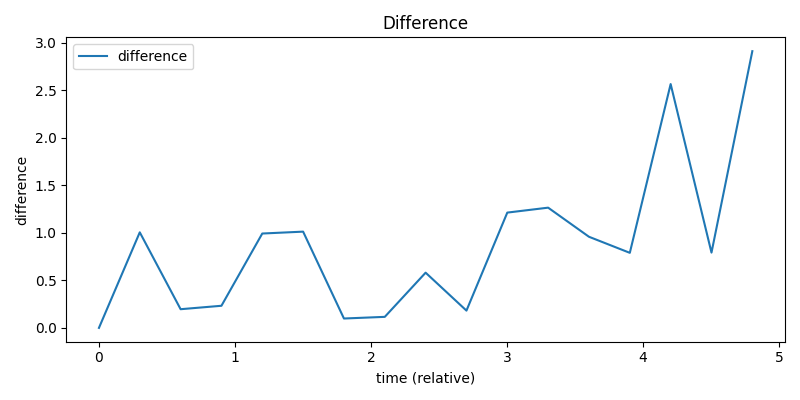
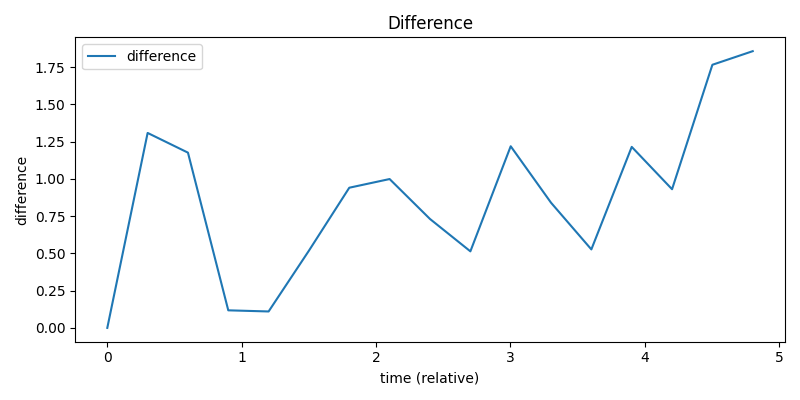
add acceleration arg and progress display

diff --git a/src/main.cpp b/src/main.cpp
@@ -1,20 +1,58 @@
 #include <iostream>
+#include <thread>
+#include <chrono>
 
 #include "config/config.h"
 #include "pipeline/pipeline_manager.h"
 
+// 進捗表示
+static void showProgress(int duration_sec) {
+    const int steps = 20;
+    int sleep_per_step = duration_sec * 1000 / steps;
+
+    for (int i = 1; i <= steps; ++i) {
+        std::this_thread::sleep_for(std::chrono::milliseconds(sleep_per_step));
+
+        int percent = i * 5;
+
+        std::cout << "\rProgress: [";
+        for (int j = 0; j < steps; ++j) {
+            if (j < i) std::cout << "*";
+            else std::cout << "-";
+        }
+        std::cout << "] " << percent << "%" << std::flush;
+    }
+
+    std::cout << std::endl;
+}
+
 int main(int argc, char* argv[]) {
+
+    // TODO 各ファイルのメンバ変数にmを付ける
+    // TODO namespaceを付ける
+
+    // 入力値のチェック
     Config config = parseArgs(argc, argv);
     validateConfig(config);
 
-    // 修正したい箇所に関してはTODOで検索する
-    // TODO 加速度も入力できるようにする
-    // TODO 各ファイルのメンバ変数にmを付ける
+    PipelineManager manager(
+        config.sensor_interval_ms,
+        config.noise_stddev,
+        config.alpha,
+        config.ax,
+        config.ay
+    );
 
-    PipelineManager manager(config.sensor_interval_ms, config.noise_stddev, config.alpha);
+    // 別スレッドで進捗表示
+    std::thread progress_thread(showProgress, config.duration_sec);
 
+    // Pipelineを実行してセンターデータを収集
     manager.start();
     std::this_thread::sleep_for(std::chrono::seconds(config.duration_sec));
     manager.stop();
 
+    // 進捗表示スレッド終了待ち
+    progress_thread.join();
+
+    return 0;
 }

diff --git a/src/config/config.cpp b/src/config/config.cpp
@@ -19,6 +19,12 @@ Config parseArgs(int argc, char* argv[]) {
             } else if (arg == "--alpha" && (i + 1) < argc) {
                 config.alpha = std::stod(argv[++i]);
 
+            } else if (arg == "--ax" && (i + 1) < argc) {
+                config.ax = std::stod(argv[++i]);
+
+            } else if (arg == "--ay" && (i + 1) < argc) {
+                config.ay = std::stod(argv[++i]);
+
             } else {
                 std::cerr << "Unknown argument: " << arg << std::endl;
             }
@@ -31,6 +37,8 @@ Config parseArgs(int argc, char* argv[]) {
     std::cout << "interval=" << config.sensor_interval_ms << std::endl;
     std::cout << "noise=" << config.noise_stddev << std::endl;
     std::cout << "alpha=" << config.alpha << std::endl;
+    std::cout << "acceleration_x=" << config.ax << std::endl;
+    std::cout << "acceleration_y=" << config.ay << std::endl;
 
     return config;
 }
@@ -43,6 +51,12 @@ void validateConfig(const Config& config) {
         throw std::runtime_error("interval must be > 0");
     }
     if (config.alpha < 0.0 || config.alpha > 1.0) {
-        throw std::runtime_error("alpha must be in [0,1]");
+        throw std::runtime_error("alpha must be in [0, 1]");
+    }
+    if (config.ax < -10.0 || config.ax > 10.0) {
+        throw std::runtime_error("ax must be in [-10.0, 10.0]");
+    }
+    if (config.ay < -10.0 || config.ay > 10.0) {
+        throw std::runtime_error("ay must be in [-10.0, 10.0]");
     }
 }

diff --git a/src/components/sensor.cpp b/src/components/sensor.cpp
@@ -2,8 +2,8 @@
 #include <chrono>
 #include <random>
 
-Sensor::Sensor(SafeQueue<Position>& raw, SafeQueue<Position>& proc, int interval_ms, double noise)
-    : raw_queue(raw), proc_queue(proc), interval(interval_ms), noise_stddev(noise) {}
+Sensor::Sensor(SafeQueue<Position>& raw, SafeQueue<Position>& proc, int interval_ms, double noise, double ax, double ay)
+    : raw_queue(raw), proc_queue(proc), interval(interval_ms), noise_stddev(noise), acceleration_x(ax), acceleration_y(ay) {}
 
 void Sensor::start() {
     sensorRunning = true;
@@ -26,10 +26,6 @@ void Sensor::run() {
     double velocity_x = 0.0;
     double velocity_y = 0.0;
 
-    // 加速度（外部入力として設定）
-    double acceleration_x = 0.5;
-    double acceleration_y = 0.2;
-
     // 前回ループ時刻（dt計算用）
     auto prev_time = std::chrono::steady_clock::now();
 
@@ -46,12 +42,10 @@ void Sensor::run() {
         prev_time = now;
 
         // 加速度を時間積分して速度を更新
-        // （v = v + a * dt）
         velocity_x += acceleration_x * dt;
         velocity_y += acceleration_y * dt;
         
         // 速度を時間積分して位置を更新
-        // （x = x + v * dt）
         x += velocity_x * dt;
         y += velocity_y * dt;
 

diff --git a/src/pipeline/pipeline_manager.cpp b/src/pipeline/pipeline_manager.cpp
@@ -1,10 +1,10 @@
 #include "pipeline/pipeline_manager.h"
 
-PipelineManager::PipelineManager(const int interval_ms, const double noise, const double alpha)
+PipelineManager::PipelineManager(const int interval_ms, const double noise, const double alpha, const double ax, const double ay)
     : raw_queue(),
       proc_queue(),
       filtered_queue(),
-      sensor(raw_queue, proc_queue, interval_ms, noise),
+      sensor(raw_queue, proc_queue, interval_ms, noise, ax, ay),
       processor(proc_queue, filtered_queue, alpha),
       raw_logger(raw_queue),
       filtered_logger(filtered_queue)

diff --git a/include/pipeline/pipeline_manager.h b/include/pipeline/pipeline_manager.h
@@ -6,13 +6,12 @@
 
 class PipelineManager {
 public:
-    PipelineManager(const int interval_ms, const double noise, const double alpha);
+    PipelineManager(const int interval_ms, const double noise, const double alpha, const double ax, const double ay);
 
     void start();
     void stop();
 
 private:
-    // TODO Queデータをshared_ptrにしてもいいかも
     SafeQueue<Position> raw_queue;
     SafeQueue<Position> proc_queue;
     SafeQueue<Position> filtered_queue;

diff --git a/include/components/sensor.h b/include/components/sensor.h
@@ -6,7 +6,7 @@
 
 class Sensor {
 public:
-    Sensor(SafeQueue<Position>& raw, SafeQueue<Position>& proc, int interval_ms, double noise_stddev);
+    Sensor(SafeQueue<Position>& raw, SafeQueue<Position>& proc, int interval_ms, double noise_stddev, double ax, double ay);
 
     void start();
     void stop();
@@ -22,4 +22,6 @@ private:
 
     int interval;
     double noise_stddev;
+    double acceleration_x;
+    double acceleration_y;
 };

diff --git a/include/config/config.h b/include/config/config.h
@@ -5,6 +5,8 @@ struct Config {
     int sensor_interval_ms = 500;
     double noise_stddev = 0.5;
     double alpha = 0.3;
+    double ax = 0.5;
+    double ay = 0.2;
 };
 
 Config parseArgs(int argc, char* argv[]);
